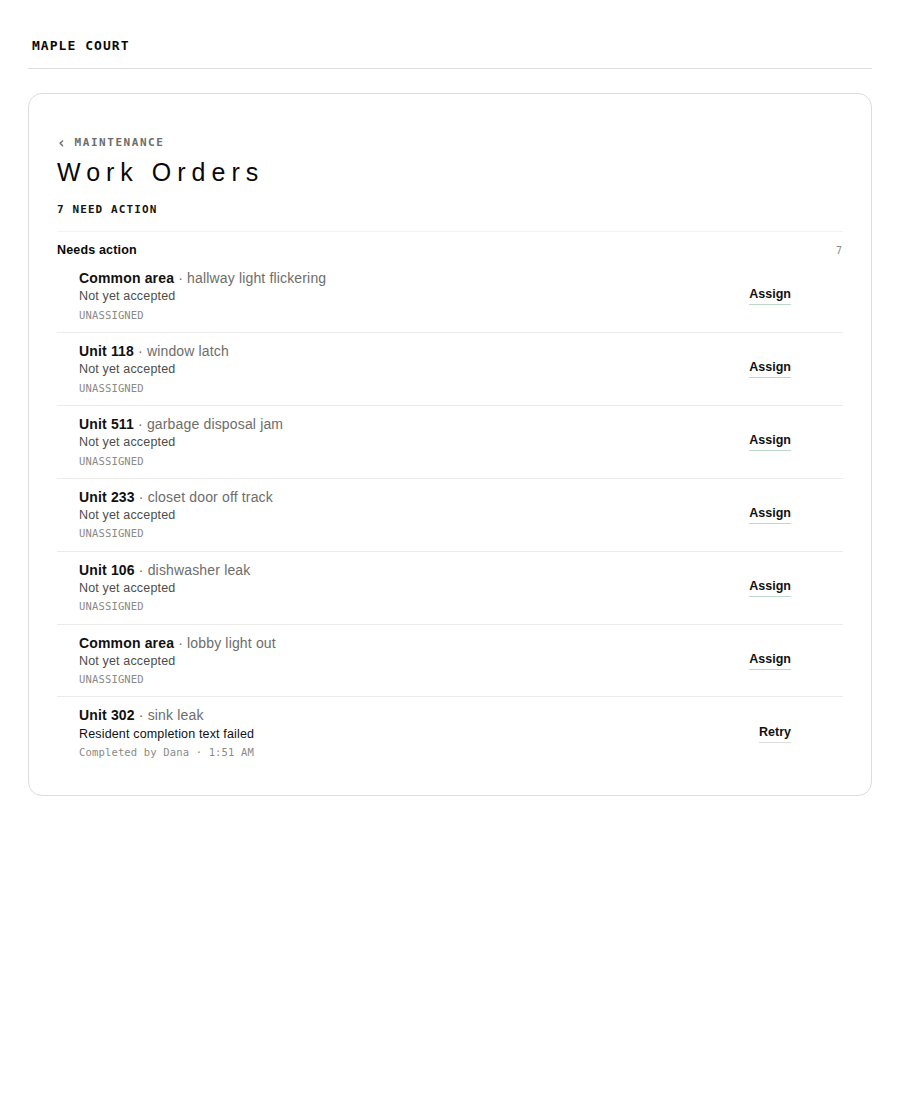
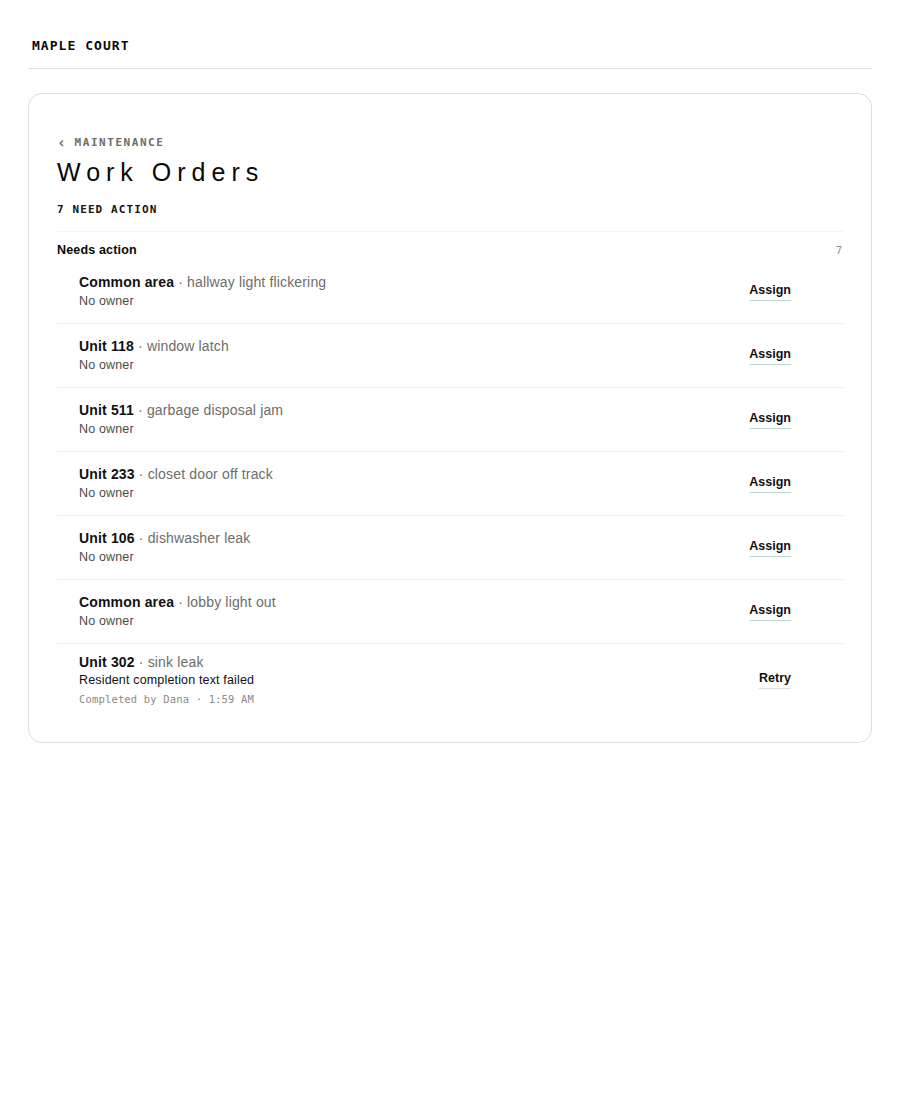
Distinguish assigned from accepted in the work-order read.
'Nobody owns this' and 'Dana has it and hasn't taken it yet' are
different situations with different repairs, and the surface could not say
so — the projection exposed only the ACCEPTED owner, so both rendered as
UNASSIGNED. current.assigned_to carries the other fact.

Also preserves the six browser-proof screenshots at 46/46.

Claude-Session: https://claude.ai/code/session_01Dw7G5awe4T3bXFsxJ8TvBW

diff --git a/src/surfaces/work_order_status_read.js b/src/surfaces/work_order_status_read.js
@@ -89,9 +89,10 @@ async function readWorkOrderStatus(db, { propertyId, workOrderId }) {
   //  work order's free-text assigned_to column is deliberately not read.
   const acceptance = (await db.query(
     `select o.id, o.status, o.assigned_user_id, o.accepted_by_user_id, o.accepted_at,
-            usr.name as accepted_by_name
+            usr.name as accepted_by_name, asg.name as assigned_name
        from obligations o
        left join users usr on usr.id = o.accepted_by_user_id
+       left join users asg on asg.id = o.assigned_user_id
       where o.related_type = 'work_order' and o.related_id = $1 and o.property_id = $2
       order by o.created_at asc limit 1`, [workOrderId, propertyId])).rows[0] || null;
 
@@ -174,6 +175,12 @@ async function readWorkOrderStatus(db, { propertyId, workOrderId }) {
       accountable: acceptance && acceptance.accepted_by_user_id
         ? { user_id: acceptance.accepted_by_user_id, name: acceptance.accepted_by_name || "(unnamed user)" }
         : "UNASSIGNED",
+      //  ASSIGNED is not ACCEPTED. "Nobody owns this" and "Dana has it and
+      //  hasn't taken it yet" are different situations with different repairs,
+      //  and the surface cannot say so without both facts.
+      assigned_to: acceptance && acceptance.assigned_user_id
+        ? { user_id: acceptance.assigned_user_id, name: acceptance.assigned_name || null }
+        : null,
       accepted_at: (acceptance && acceptance.accepted_at) || null,
       en_route_at: latestByKind.en_route ? latestByKind.en_route.occurred_at : null,
       //  CURRENT means current. A no-access reported at 2:14 is not a fact
